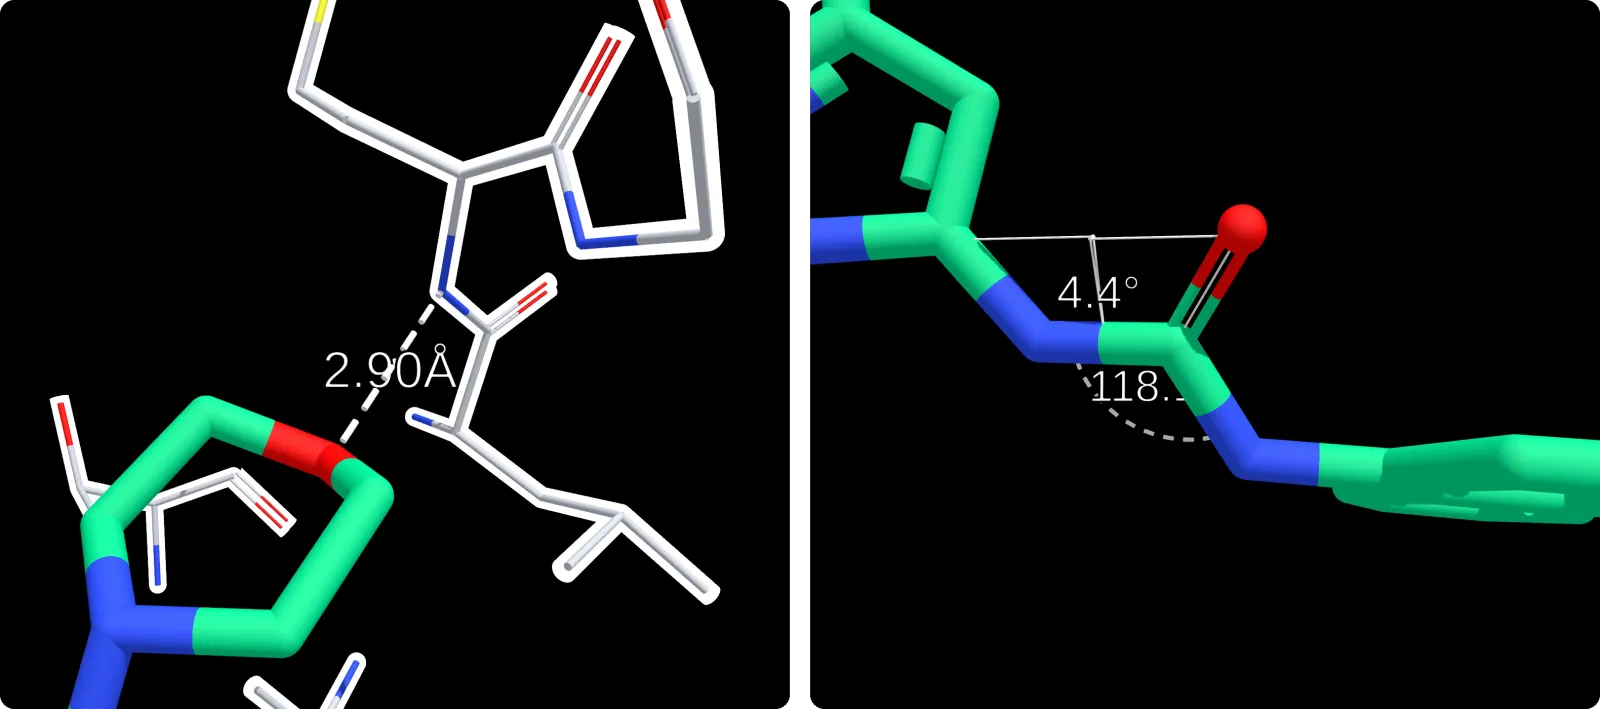
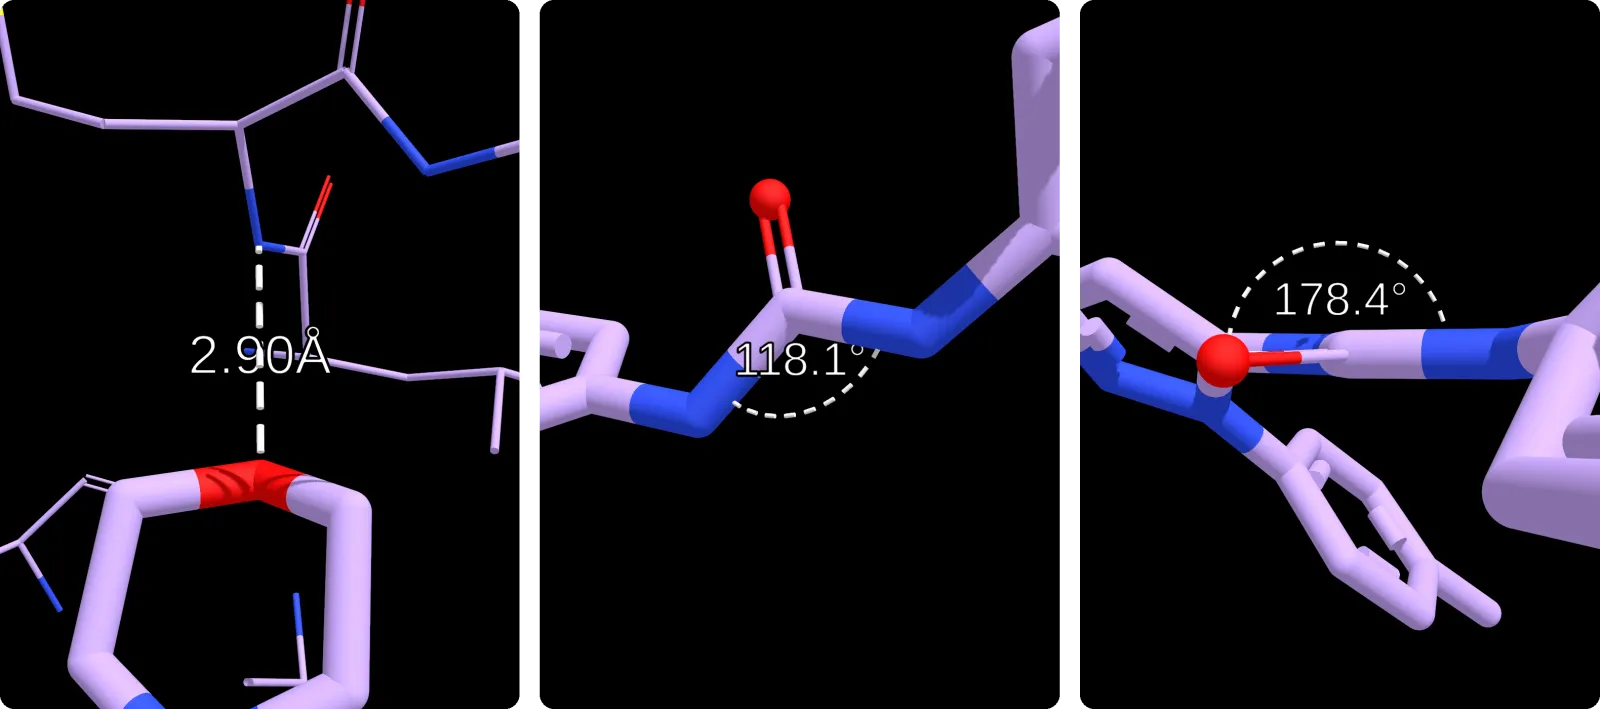
Point the measurement legend at the new three-panel figure
- The figure now has one panel each for the distance, the angle and the
  dihedral, so the 3 hover areas move to their labels and the legend
  follows the same left-to-right order.
- The image files are byte-identical to the ones on u4/captures, so a
  later merge of docs/v2.7.1-refresh brings no conflict.

Changed region(s): [[0.0, 0.0, 1.0, 1.0], [0.0, 0.031, 0.0312, 0.1551]]

diff --git a/docs/nanome_web/workspace.md b/docs/nanome_web/workspace.md
@@ -150,14 +150,14 @@ Nanome shows dihedral angles from 0° to 180°. Torsions of −60° and +60° bo
 
 </Callout>
 
-Nanome Web draws measurements the same way as Nanome XR. A distance, a dihedral and an angle look like this:
+Nanome Web draws measurements the same way as Nanome XR. A distance, an angle and a dihedral look like this:
 
-<ShotRow src="nanome-v2/v2-7/measurement-types.webp" alt="A distance from the 1KV2 ligand to Met109, and a dihedral and an angle on the ligand">
+<ShotRow src="nanome-v2/v2-7/measurement-types.webp" alt="A distance from the 1KV2 ligand to Met109, then an angle and a dihedral on the ligand, one per panel">
 
 <UiList label="Measurement types">
-<UiItem icon="ruler-measure" name="Distance" area="19.9,40.7,8.9,23.2">2 atoms, in Å.</UiItem>
-<UiItem icon="rotate-clockwise-2" name="Dihedral" area="60.6,31.8,15.7,13.9">4 atoms: the torsion around the axis from atom 2 to atom 3, in degrees.</UiItem>
-<UiItem icon="angle" name="Angle" area="66.8,46.1,9.2,17.1">3 atoms, measured at the second atom, in degrees.</UiItem>
+<UiItem icon="ruler-measure" name="Distance" area="11.1,32.4,10.2,37.4">2 atoms, in Å.</UiItem>
+<UiItem icon="angle" name="Angle" area="44.9,41.4,11.4,19.3">3 atoms, measured at the second atom, in degrees.</UiItem>
+<UiItem icon="rotate-clockwise-2" name="Dihedral" area="76.5,33.6,14.6,17.1">4 atoms: the torsion around the axis from atom 2 to atom 3, in degrees.</UiItem>
 </UiList>
 
 </ShotRow>
